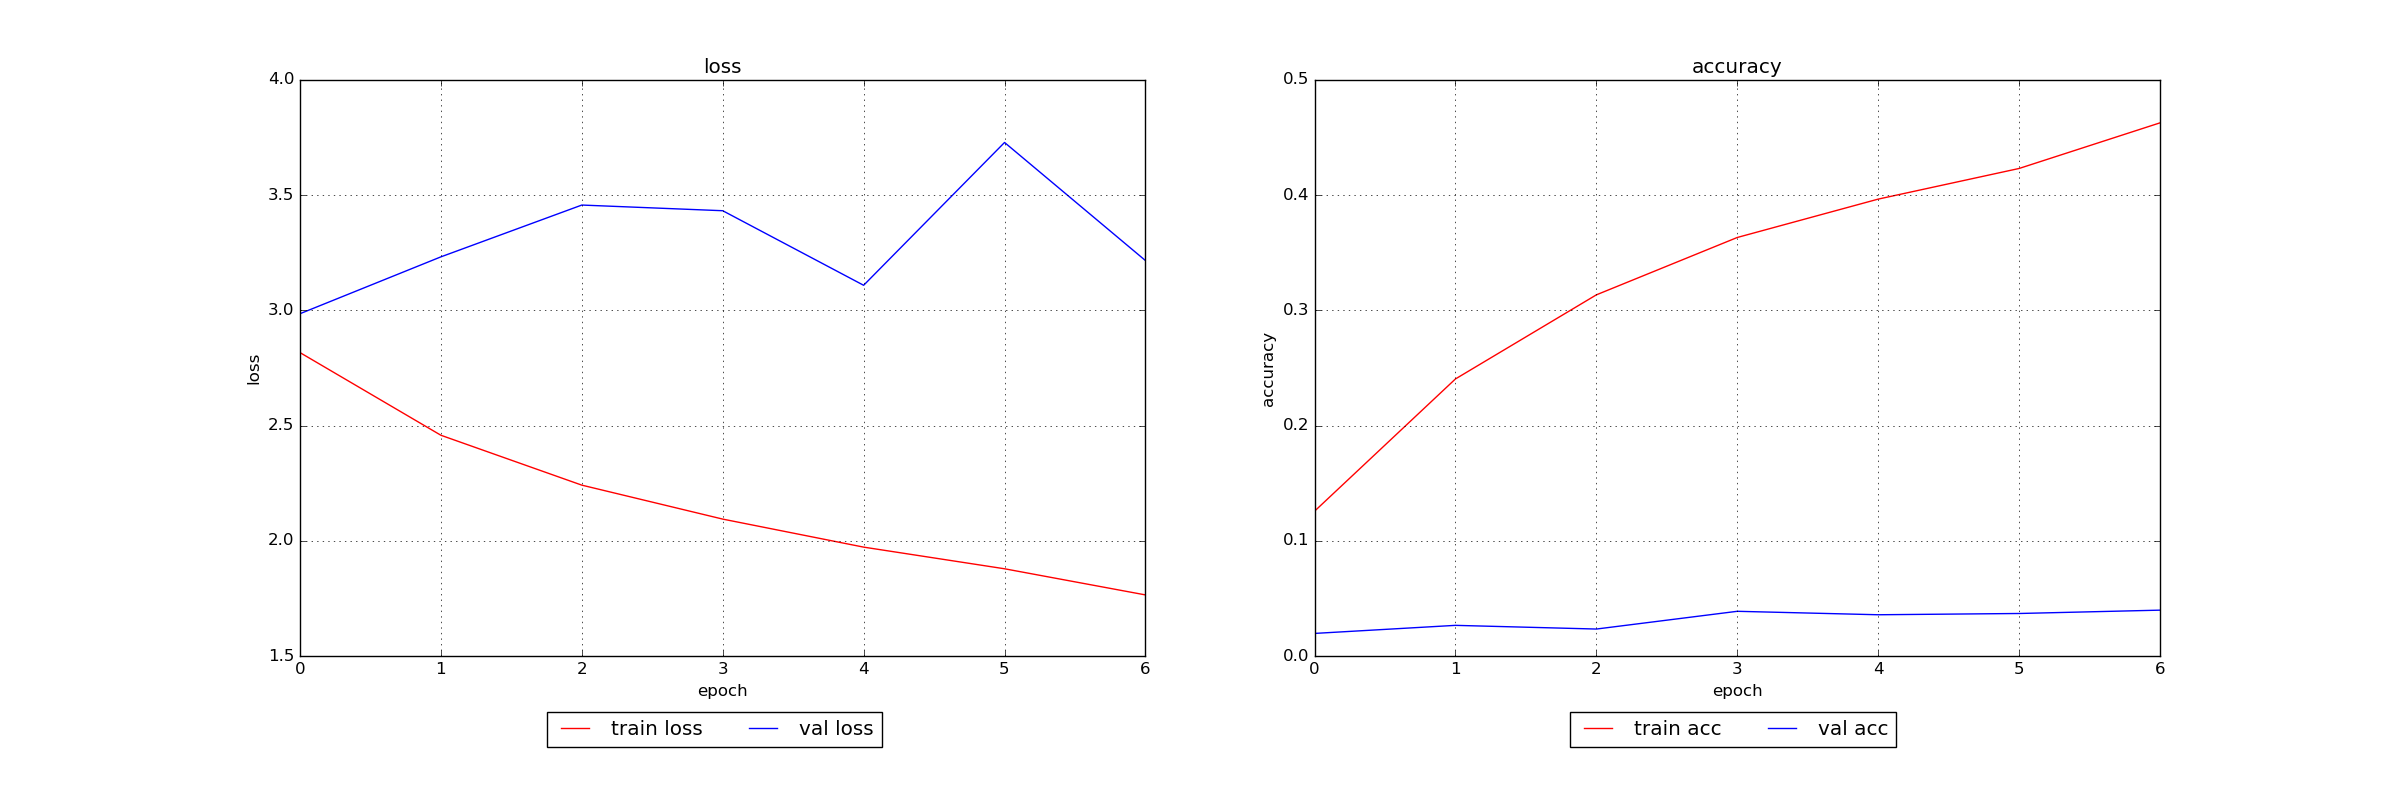
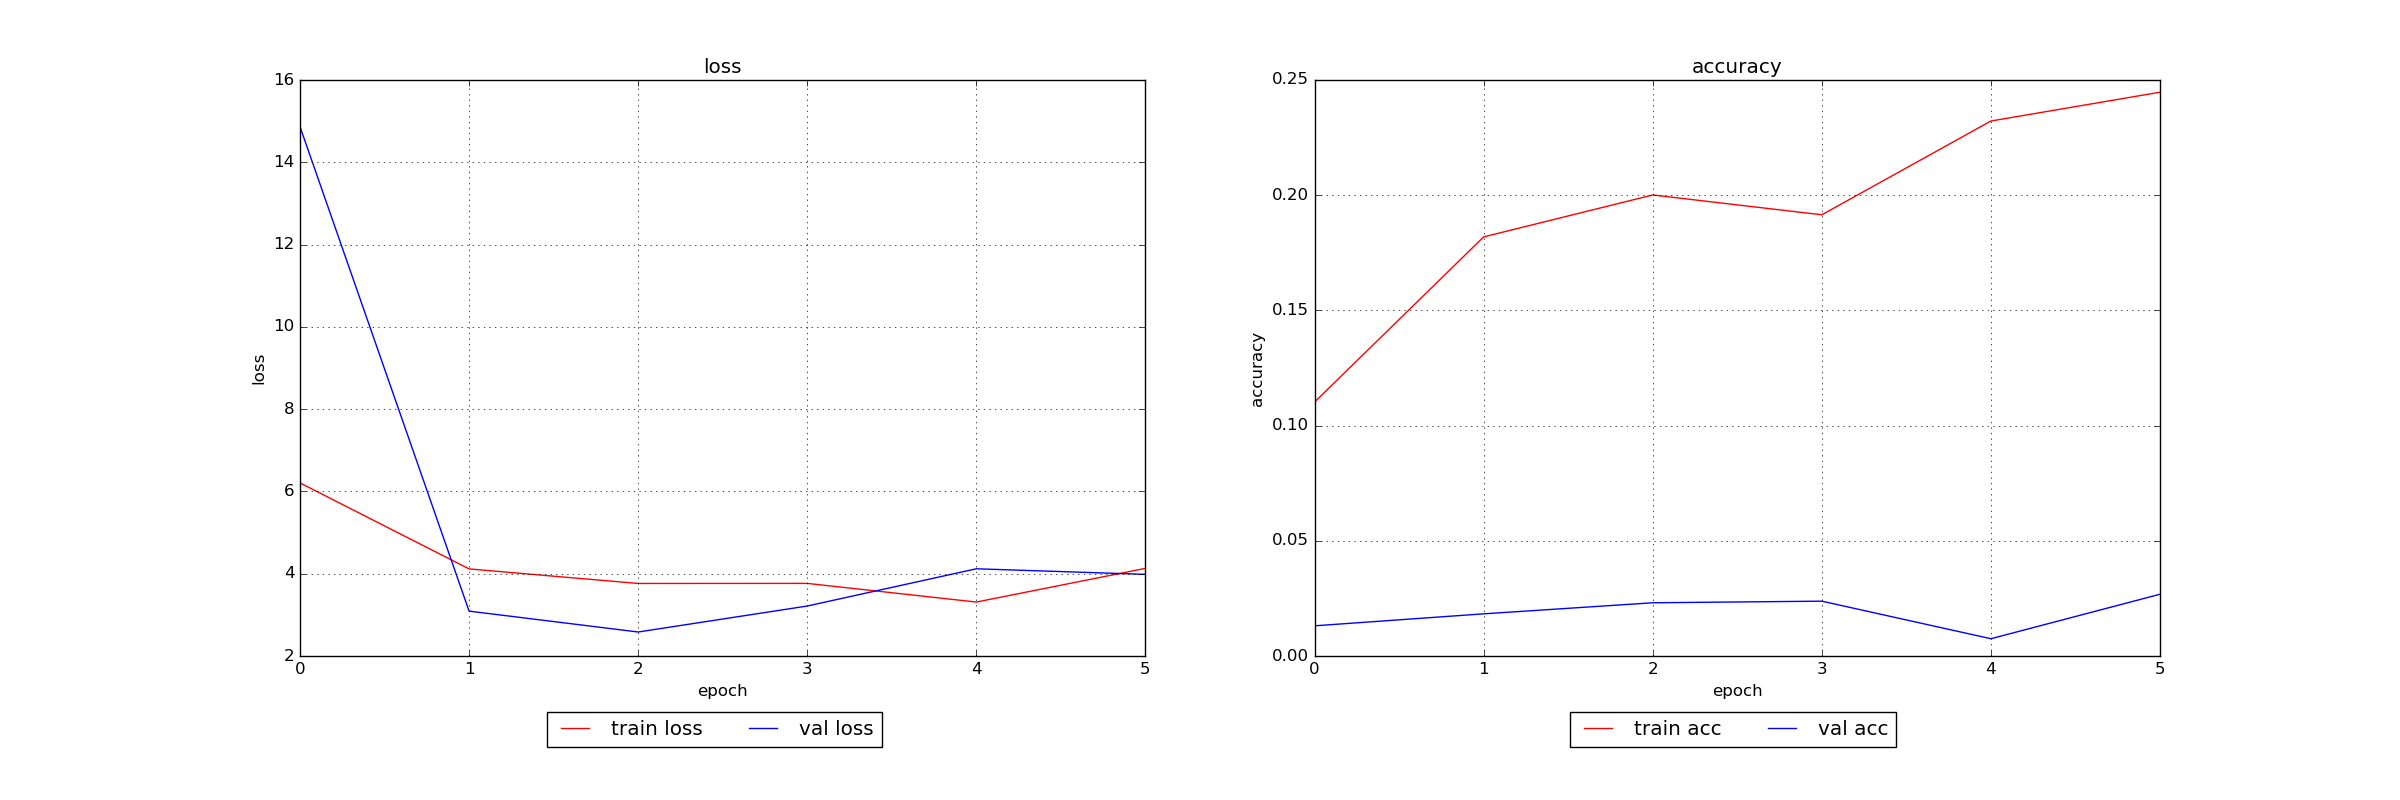
learnings

diff --git a/tiny_imagenet_classifier.py b/tiny_imagenet_classifier.py
@@ -27,9 +27,10 @@ from plotter import Plotter
 from val_load import get_annotations_map
 
 loss_functions = ['categorical_crossentropy', 'hinge', 'squared_hinge']
+#loss_functions = ['hinge']
 # num_classes_arr = [2, 5, 8]
 # num_classes_arr = [10, 100, 200]
-num_classes_arr = [50]
+num_classes_arr = [20]
 for loss_function in loss_functions:
     for num_classes in num_classes_arr: # num classes loop
 
@@ -39,7 +40,7 @@ for loss_function in loss_functions:
         print('Testing: ' + loss_function + ' with ' + str(num_classes) + ' classes')
         print('===========================')
         print()
-        batch_size = 128
+        batch_size = 64
         nb_classes = 200
         nb_epoch = 100
         classes_to_load = num_classes
@@ -133,7 +134,7 @@ for loss_function in loss_functions:
         model = Sequential()
         #conv-spatial batch norm - relu #1 
         model.add(ZeroPadding2D((2,2),input_shape=(3,64,64)))
-        model.add(Convolution2D(64,5,5,subsample=(2,2),W_regularizer=WeightRegularizer(l1=1e-7,l2=1e-7)))
+        model.add(Convolution2D(64,5,5,subsample=(2,2),W_regularizer=WeightRegularizer(l1=1e-5,l2=1e-5)))
         model.add(BatchNormalization(epsilon=1e-06, mode=0, axis=1, momentum=0.9))
         model.add(Activation('relu')) 
 
@@ -191,7 +192,7 @@ for loss_function in loss_functions:
 
         #Affine-spatial batch norm -relu #10 
         model.add(Flatten())
-        model.add(Dense(512,W_regularizer=WeightRegularizer(l1=1e-5,l2=1e-5)))
+        model.add(Dense(512,W_regularizer=WeightRegularizer(l1=1e-4,l2=1e-4)))
         model.add(BatchNormalization(epsilon=1e-06, mode=0, axis=1, momentum=0.9))
         model.add(Activation('relu')) 
         model.add(Dropout(0.5)) 
@@ -200,8 +201,8 @@ for loss_function in loss_functions:
         model.add(Dense(num_classes,activation='softmax',W_regularizer=WeightRegularizer(l1=1e-5,l2=1e-5)))#pretrained weights assume only 100 outputs, we need to train this layer from scratch
 
         # if loss_function is 'categorical_crossentropy':
-        #     model.add(Activation('softmax'))
-        sgd = SGD(lr=0.01, decay=1e-6, momentum=0.9, nesterov=True)
+       # model.add(Activation('softmax'))
+        sgd = SGD(lr=0.1, decay=1e-6, momentum=0.9, nesterov=True)
         model.compile(loss=loss_function,
                       optimizer=sgd,
                       metrics=['accuracy'])
